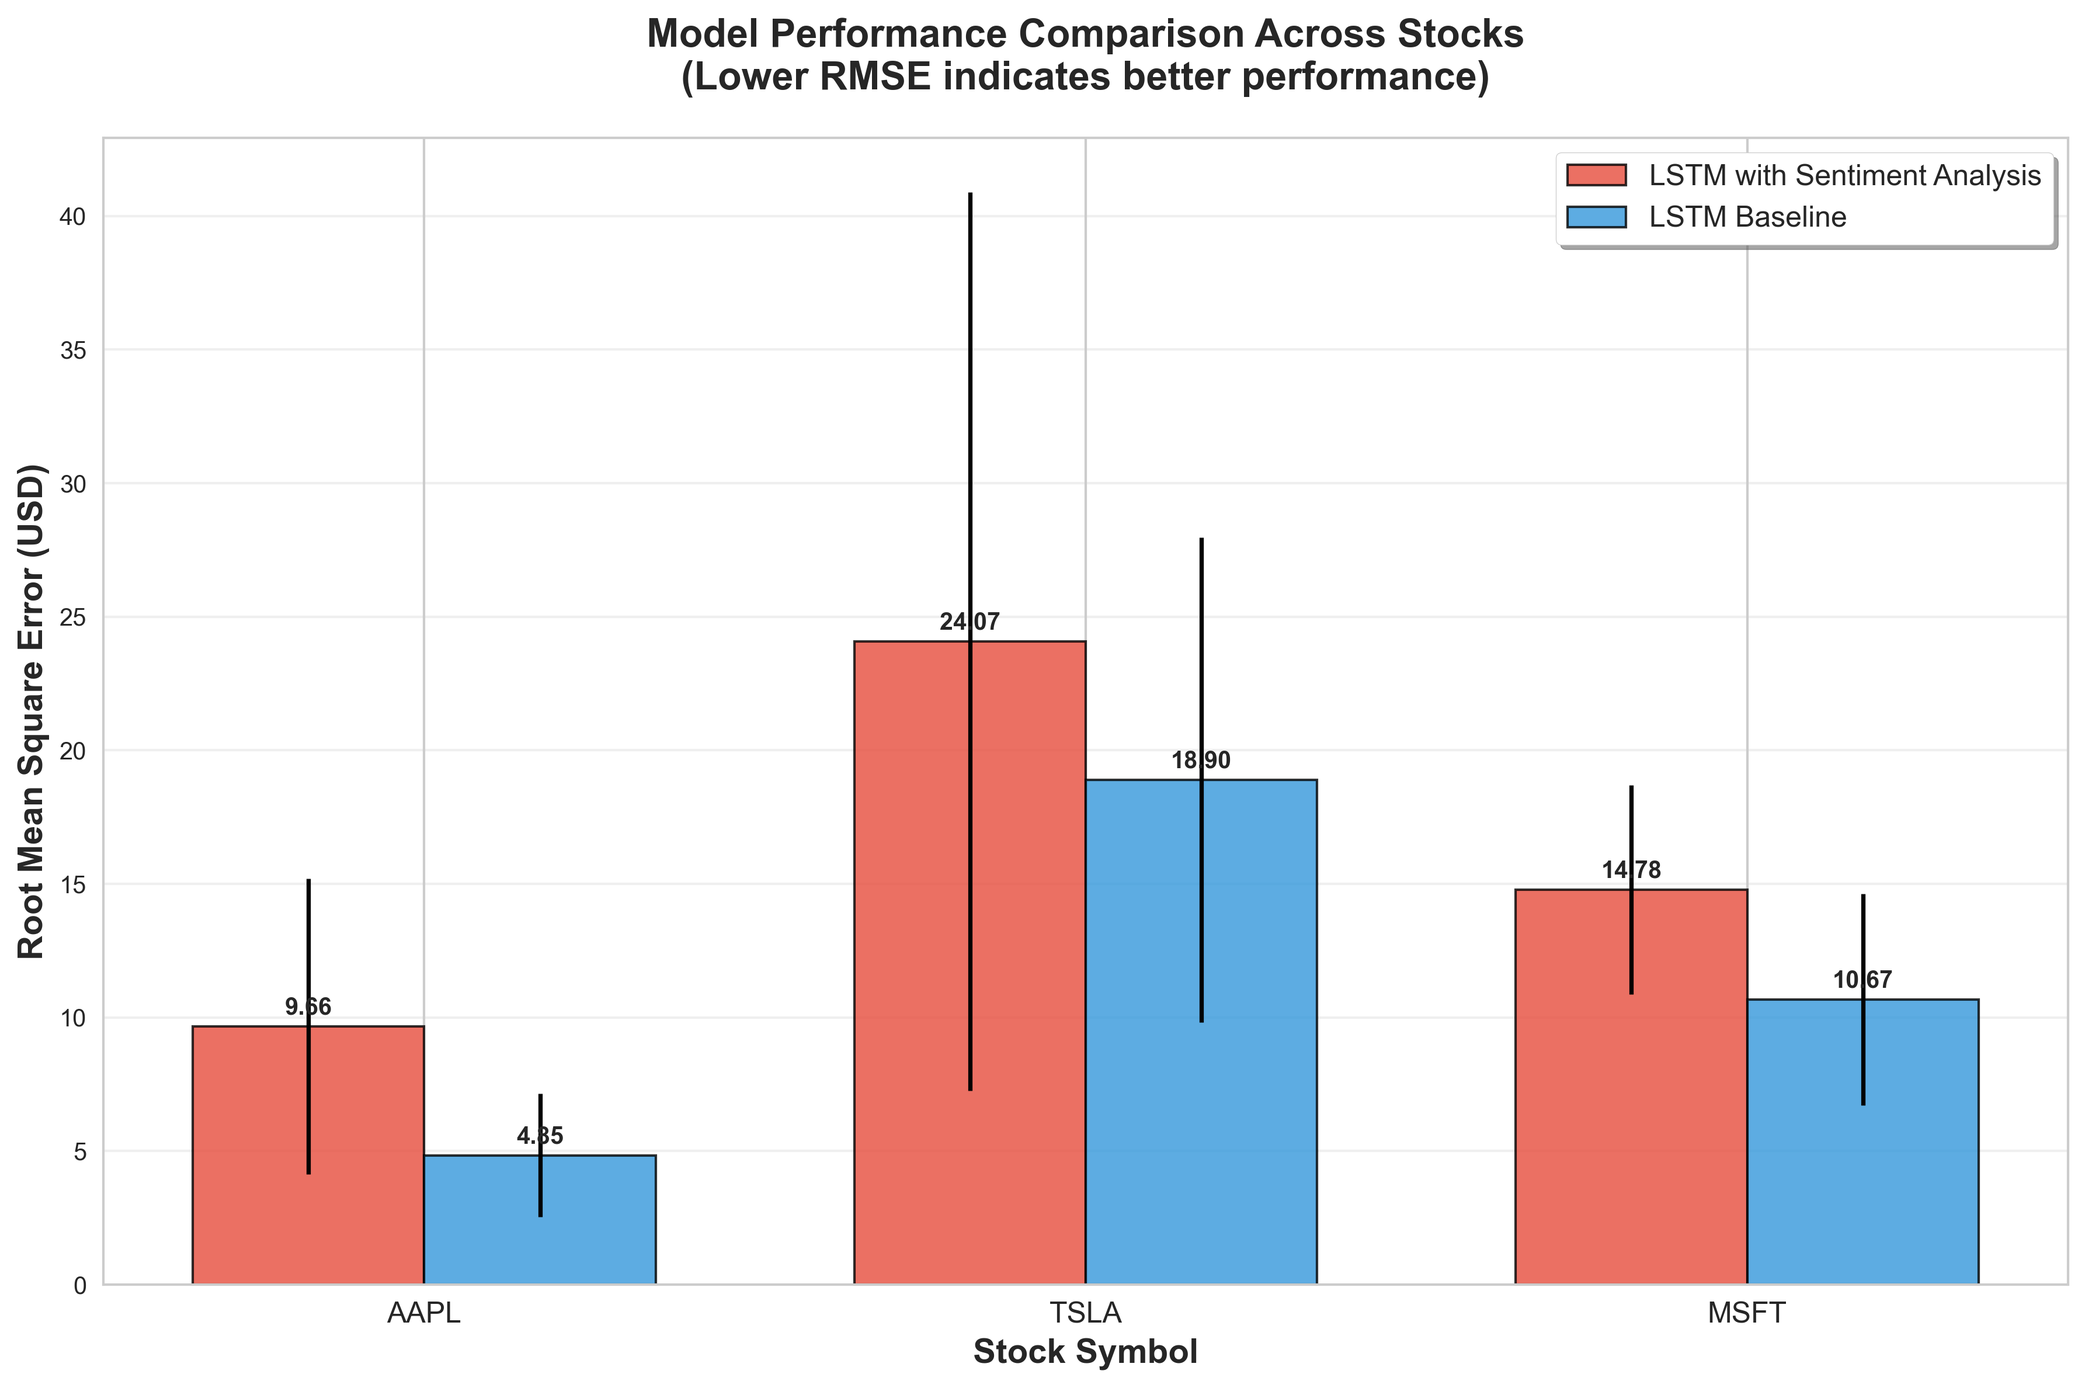
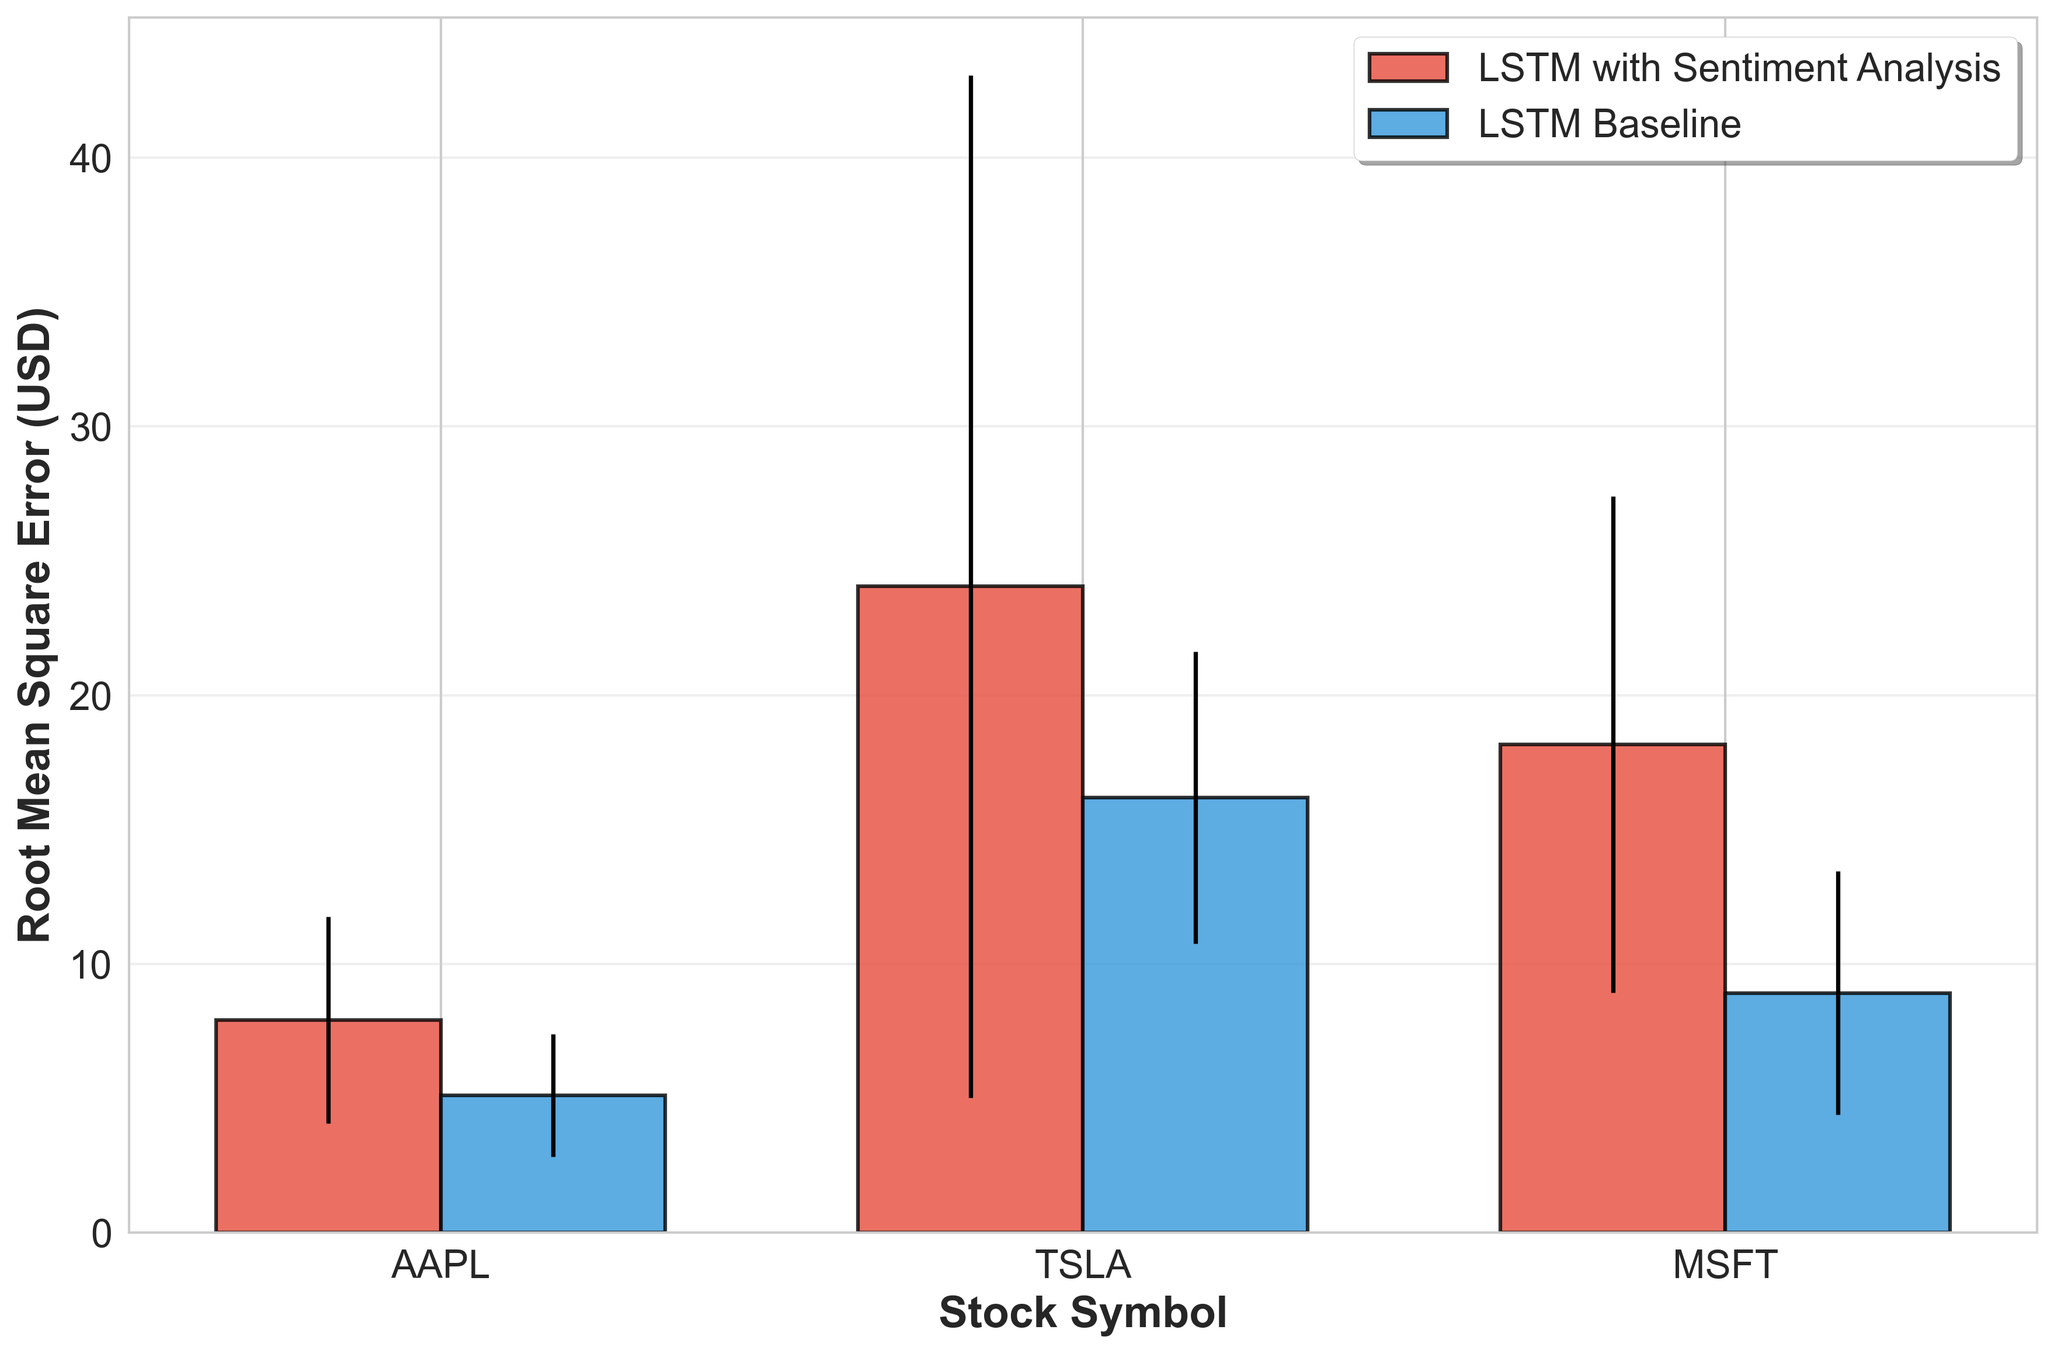
updated figures

diff --git a/main_analysis.py b/main_analysis.py
@@ -418,38 +418,341 @@ class ImprovedStockPredictor:
     
     def create_comprehensive_visualizations(self, results_dict, statistical_results):
         """
-        Create professional visualizations as separate PNG files.
-        
+        Create professional visualizations as both combined and separate PNG files.
+
         Args:
             results_dict (dict): Dictionary containing all results
             statistical_results (dict): Statistical test results
         """
         print("Creating professional visualizations...")
-        
+
         # Set professional style
         plt.style.use('seaborn-v0_8-whitegrid')
         sns.set_palette("husl")
-        
-        # 1. Model Performance Comparison
-        self._create_performance_comparison_plot(results_dict)
-        
-        # 2. Cross-validation Distribution
-        self._create_cv_distribution_plot(results_dict)
-        
-        # 3. Statistical Significance Analysis
-        self._create_significance_plot(statistical_results)
-        
-        # 4. Individual Stock Predictions
-        self._create_individual_stock_plots(results_dict)
-        
-        # 5. Model Architecture Diagram
-        self._create_architecture_diagram()
-        
-        # 6. Results Summary Table
-        self._create_results_table(results_dict, statistical_results)
-        
-        print("All visualizations saved as separate PNG files")
-    
+
+        # Increase default font sizes for all figures
+        plt.rcParams.update({
+            'font.size': 16,
+            'axes.labelsize': 18,
+            'axes.titlesize': 20,
+            'xtick.labelsize': 16,
+            'ytick.labelsize': 16,
+            'legend.fontsize': 16
+        })
+
+        # Create individual separate PNG files
+        self._save_individual_figures(results_dict, statistical_results)
+
+        # Create a single combined figure
+        self._create_combined_figure(results_dict, statistical_results)
+
+        print("All visualizations saved as both combined and separate PNG files")
+
+    def _save_individual_figures(self, results_dict, statistical_results):
+        """Save each figure as a separate PNG file."""
+
+        # Figure 1: Model Performance Comparison
+        fig, ax = plt.subplots(1, 1, figsize=(12, 8))
+        self._plot_performance_comparison(results_dict, ax)
+        plt.tight_layout()
+        plt.savefig('Figure1_Model_Performance_Comparison.png', dpi=300, bbox_inches='tight',
+                   facecolor='white', edgecolor='none')
+        plt.close()
+        print("[OK] Saved: Figure1_Model_Performance_Comparison.png")
+
+        # Figure 2: AAPL Price Predictions
+        if 'AAPL_advanced' in results_dict:
+            fig, ax = plt.subplots(1, 1, figsize=(14, 8))
+            self._plot_individual_stock(results_dict, 'AAPL', ax)
+            plt.tight_layout()
+            plt.savefig('Figure2_AAPL_Price_Predictions.png', dpi=300, bbox_inches='tight',
+                       facecolor='white', edgecolor='none')
+            plt.close()
+            print("[OK] Saved: Figure2_AAPL_Price_Predictions.png")
+
+        # Figure 3: TSLA Price Predictions
+        if 'TSLA_advanced' in results_dict:
+            fig, ax = plt.subplots(1, 1, figsize=(14, 8))
+            self._plot_individual_stock(results_dict, 'TSLA', ax)
+            plt.tight_layout()
+            plt.savefig('Figure3_TSLA_Price_Predictions.png', dpi=300, bbox_inches='tight',
+                       facecolor='white', edgecolor='none')
+            plt.close()
+            print("[OK] Saved: Figure3_TSLA_Price_Predictions.png")
+
+        # Figure 4: MSFT Price Predictions
+        if 'MSFT_advanced' in results_dict:
+            fig, ax = plt.subplots(1, 1, figsize=(14, 8))
+            self._plot_individual_stock(results_dict, 'MSFT', ax)
+            plt.tight_layout()
+            plt.savefig('Figure4_MSFT_Price_Predictions.png', dpi=300, bbox_inches='tight',
+                       facecolor='white', edgecolor='none')
+            plt.close()
+            print("[OK] Saved: Figure4_MSFT_Price_Predictions.png")
+
+        # Figure 5: Statistical Significance (with A/B panels)
+        fig, (ax1, ax2) = plt.subplots(1, 2, figsize=(18, 7))
+        self._plot_significance_panels(statistical_results, ax1, ax2)
+        plt.tight_layout()
+        plt.savefig('Figure5_Statistical_Significance_Analysis.png', dpi=300, bbox_inches='tight',
+                   facecolor='white', edgecolor='none')
+        plt.close()
+        print("[OK] Saved: Figure5_Statistical_Significance_Analysis.png")
+
+    def _create_combined_figure(self, results_dict, statistical_results):
+        """Create a single combined figure with all visualizations."""
+        # Create figure with subplots (3 rows, 2 columns layout)
+        fig = plt.figure(figsize=(24, 20))
+        gs = fig.add_gridspec(3, 2, hspace=0.4, wspace=0.3)
+
+        # Figure 1: Model Performance Comparison (row 1, full width)
+        ax1 = fig.add_subplot(gs[0, :])
+        self._plot_performance_comparison(results_dict, ax1)
+
+        # Figure 2: AAPL Price Predictions (row 2, left)
+        ax2 = fig.add_subplot(gs[1, 0])
+        self._plot_individual_stock(results_dict, 'AAPL', ax2)
+
+        # Figure 3: TSLA Price Predictions (row 2, right)
+        ax3 = fig.add_subplot(gs[1, 1])
+        self._plot_individual_stock(results_dict, 'TSLA', ax3)
+
+        # Figure 4: MSFT Price Predictions (row 3, left)
+        ax4 = fig.add_subplot(gs[2, 0])
+        self._plot_individual_stock(results_dict, 'MSFT', ax4)
+
+        # Figure 5: Statistical Significance (row 3, right - combined A/B panels)
+        ax5 = fig.add_subplot(gs[2, 1])
+        # Create a nested subplot for the A/B panels within this space
+        ax5.remove()
+        inner_gs = gs[2, 1].subgridspec(1, 2, wspace=0.3)
+        ax5a = fig.add_subplot(inner_gs[0, 0])
+        ax5b = fig.add_subplot(inner_gs[0, 1])
+        self._plot_significance_panels(statistical_results, ax5a, ax5b)
+
+        plt.savefig('Combined_Figures_All.png', dpi=300, bbox_inches='tight',
+                   facecolor='white', edgecolor='none')
+        plt.close()
+        print("[OK] Saved: Combined_Figures_All.png")
+
+    def _plot_performance_comparison(self, results_dict, ax):
+        """Plot model performance comparison for Figure 1."""
+        stocks = []
+        advanced_rmse = []
+        baseline_rmse = []
+        advanced_std = []
+        baseline_std = []
+
+        for stock in ['AAPL', 'TSLA', 'MSFT']:
+            if f"{stock}_advanced" in results_dict and f"{stock}_baseline" in results_dict:
+                stocks.append(stock)
+                advanced_rmse.append(results_dict[f"{stock}_advanced"]['mean_rmse'])
+                baseline_rmse.append(results_dict[f"{stock}_baseline"]['mean_rmse'])
+                advanced_std.append(results_dict[f"{stock}_advanced"]['std_rmse'])
+                baseline_std.append(results_dict[f"{stock}_baseline"]['std_rmse'])
+
+        x = np.arange(len(stocks))
+        width = 0.35
+
+        # Create bars WITHOUT value labels (removed numbers)
+        ax.bar(x - width/2, advanced_rmse, width, yerr=advanced_std,
+               label='LSTM with Sentiment Analysis', capsize=5,
+               color='#E74C3C', alpha=0.8, edgecolor='black', linewidth=1.5)
+        ax.bar(x + width/2, baseline_rmse, width, yerr=baseline_std,
+               label='LSTM Baseline', capsize=5,
+               color='#3498DB', alpha=0.8, edgecolor='black', linewidth=1.5)
+
+        ax.set_xlabel('Stock Symbol', fontweight='bold')
+        ax.set_ylabel('Root Mean Square Error (USD)', fontweight='bold')
+        # No title as per requirements
+        ax.set_xticks(x)
+        ax.set_xticklabels(stocks)
+        ax.legend(frameon=True, fancybox=True, shadow=True)
+        ax.grid(True, alpha=0.3, axis='y')
+
+    def _plot_cv_distribution(self, results_dict, ax):
+        """Plot cross-validation distribution for Figure 2."""
+        data_for_plot = []
+
+        for key, result in results_dict.items():
+            if 'advanced' in key:
+                stock = result['stock']
+                rmse_scores = result['cv_scores']['rmse']
+                for score in rmse_scores:
+                    # Match Figure 1 legend naming
+                    data_for_plot.append({'RMSE': score, 'Model': f"{stock}\nwith Sentiment", 'Type': 'LSTM with Sentiment Analysis'})
+            elif 'baseline' in key:
+                stock = result['stock']
+                rmse_scores = result['cv_scores']['rmse']
+                for score in rmse_scores:
+                    # Match Figure 1 legend naming
+                    data_for_plot.append({'RMSE': score, 'Model': f"{stock}\nBaseline", 'Type': 'LSTM Baseline'})
+
+        if data_for_plot:
+            df_plot = pd.DataFrame(data_for_plot)
+            sns.boxplot(data=df_plot, x='Model', y='RMSE', hue='Type', ax=ax,
+                       palette={'LSTM with Sentiment Analysis': '#E74C3C', 'LSTM Baseline': '#3498DB'})
+
+            # No title as per requirements
+            ax.set_xlabel('Model Configuration', fontweight='bold')
+            ax.set_ylabel('Root Mean Square Error (USD)', fontweight='bold')
+            ax.legend(title='Model Type')
+            ax.grid(True, alpha=0.3, axis='y')
+
+    def _plot_individual_stock(self, results_dict, stock, ax):
+        """Plot individual stock predictions."""
+        key = f"{stock}_advanced"
+        if key in results_dict:
+            result = results_dict[key]
+            actuals = result['actuals'][-150:]
+            predictions = result['predictions'][-150:]
+            x = range(len(actuals))
+
+            ax.plot(x, actuals, label='Actual Prices', linewidth=3, color='#2E86AB', alpha=0.8)
+            ax.plot(x, predictions, label='LSTM Predictions (with Sentiment)',
+                   linewidth=3, color='#A23B72', alpha=0.8)
+            ax.fill_between(x, actuals, predictions, alpha=0.2, color='gray')
+
+            # Calculate metrics
+            rmse = np.sqrt(mean_squared_error(actuals, predictions))
+            mae = mean_absolute_error(actuals, predictions)
+            r2 = r2_score(actuals, predictions)
+
+            # No title as per requirements
+            ax.set_xlabel('Time Period (Days)', fontweight='bold')
+            ax.set_ylabel('Stock Price (USD)', fontweight='bold')
+            ax.legend(loc='upper left', frameon=True, fancybox=True, shadow=True)
+            ax.grid(True, alpha=0.3)
+
+            # Add stock symbol as text annotation instead of title
+            ax.text(0.02, 0.98, stock, transform=ax.transAxes,
+                   fontsize=22, fontweight='bold', verticalalignment='top',
+                   bbox=dict(boxstyle="round,pad=0.5", facecolor="lightgray", alpha=0.7))
+
+            # Add performance metrics box
+            metrics_text = f'RMSE: ${rmse:.2f}\nMAE: ${mae:.2f}\nR²: {r2:.3f}'
+            ax.text(0.98, 0.98, metrics_text, transform=ax.transAxes,
+                   verticalalignment='top', horizontalalignment='right',
+                   bbox=dict(boxstyle="round,pad=0.5", facecolor="white", alpha=0.9, edgecolor='black'))
+
+    def _plot_significance_panels(self, statistical_results, ax1, ax2):
+        """Plot statistical significance with A/B labels for Figure 5."""
+        # Sort stocks to match Figures 1 and 2 order
+        stocks = ['AAPL', 'TSLA', 'MSFT']
+        # Filter to only include stocks that have results
+        stocks = [s for s in stocks if s in statistical_results]
+
+        improvements = [statistical_results[stock]['improvement_pct'] for stock in stocks]
+        p_values = [statistical_results[stock]['t_test']['p_value'] for stock in stocks]
+
+        # Panel A: Performance Change
+        colors = ['#27AE60' if imp > 0 else '#E74C3C' for imp in improvements]
+        bars = ax1.bar(stocks, improvements, color=colors, alpha=0.7, edgecolor='black', linewidth=1.5)
+
+        ax1.axhline(y=0, color='black', linestyle='-', linewidth=1.5)
+        ax1.set_xlabel('Stock Symbol', fontweight='bold')
+        ax1.set_ylabel('RMSE Change (%)', fontweight='bold')
+        # No title, add A label instead
+        ax1.text(0.02, 0.98, 'A', transform=ax1.transAxes, fontsize=28,
+                fontweight='bold', verticalalignment='top',
+                bbox=dict(boxstyle="round,pad=0.4", facecolor="white", edgecolor='black', linewidth=2))
+        ax1.grid(True, alpha=0.3, axis='y')
+
+        # Panel B: Statistical Significance (indicate that colors represent significance level)
+        sig_colors = ['#27AE60' if p < 0.05 else '#F39C12' for p in p_values]
+        bars2 = ax2.bar(stocks, [-np.log10(p) for p in p_values], color=sig_colors,
+                       alpha=0.7, edgecolor='black', linewidth=1.5)
+
+        ax2.axhline(y=-np.log10(0.05), color='red', linestyle='--', linewidth=2.5,
+                   label='Significance Threshold (p=0.05)')
+        ax2.set_xlabel('Stock Symbol', fontweight='bold')
+        ax2.set_ylabel('-log10(p-value)', fontweight='bold')
+        # No title, add B label instead
+        ax2.text(0.02, 0.98, 'B', transform=ax2.transAxes, fontsize=28,
+                fontweight='bold', verticalalignment='top',
+                bbox=dict(boxstyle="round,pad=0.4", facecolor="white", edgecolor='black', linewidth=2))
+
+        # Add note about colors in Panel B
+        color_note = 'Colors indicate significance:\nGreen: p < 0.05 (significant)\nOrange: p ≥ 0.05 (not significant)'
+        ax2.text(0.98, 0.02, color_note, transform=ax2.transAxes,
+                fontsize=14, verticalalignment='bottom', horizontalalignment='right',
+                bbox=dict(boxstyle="round,pad=0.5", facecolor="lightyellow", alpha=0.9, edgecolor='black'))
+        ax2.legend()
+        ax2.grid(True, alpha=0.3, axis='y')
+
+    def _plot_architecture_diagram(self, ax):
+        """Display model architecture as text."""
+        architecture_text = """
+LSTM MODEL ARCHITECTURE
+
+━━━━━━━━━━━━━━━━━━━━━━━━━━━━━━━━━━━━━━━━━━━━━━━━━━━━━━━━━━━
+
+INPUT LAYER
+• Sequence Length: 60 days
+• Features: 21 (Technical Indicators + Sentiment Metrics)
+• Shape: (batch_size, 60, 21)
+
+━━━━━━━━━━━━━━━━━━━━━━━━━━━━━━━━━━━━━━━━━━━━━━━━━━━━━━━━━━━
+
+LSTM LAYER 1
+• Units: 128
+• Return Sequences: True
+• L2 Regularization: 0.001
+• Batch Normalization
+• Dropout: 30%
+
+━━━━━━━━━━━━━━━━━━━━━━━━━━━━━━━━━━━━━━━━━━━━━━━━━━━━━━━━━━━
+
+LSTM LAYER 2
+• Units: 64
+• Return Sequences: True
+• L2 Regularization: 0.001
+• Batch Normalization
+• Dropout: 30%
+
+━━━━━━━━━━━━━━━━━━━━━━━━━━━━━━━━━━━━━━━━━━━━━━━━━━━━━━━━━━━
+
+LSTM LAYER 3
+• Units: 32
+• Return Sequences: False
+• L2 Regularization: 0.001
+• Batch Normalization
+• Dropout: 20%
+
+━━━━━━━━━━━━━━━━━━━━━━━━━━━━━━━━━━━━━━━━━━━━━━━━━━━━━━━━━━━
+
+DENSE LAYER
+• Units: 16
+• Activation: ReLU
+• L2 Regularization: 0.001
+• Dropout: 10%
+
+━━━━━━━━━━━━━━━━━━━━━━━━━━━━━━━━━━━━━━━━━━━━━━━━━━━━━━━━━━━
+
+OUTPUT LAYER
+• Units: 1 (Stock Price Prediction)
+• Activation: Linear
+
+━━━━━━━━━━━━━━━━━━━━━━━━━━━━━━━━━━━━━━━━━━━━━━━━━━━━━━━━━━━
+
+TRAINING CONFIGURATION
+• Optimizer: Adam (learning_rate=0.001)
+• Loss Function: Mean Squared Error (MSE)
+• Batch Size: 32
+• Max Epochs: 100
+• Early Stopping: Patience=15
+• Learning Rate Reduction: Factor=0.5, Patience=10
+
+━━━━━━━━━━━━━━━━━━━━━━━━━━━━━━━━━━━━━━━━━━━━━━━━━━━━━━━━━━━
+        """
+
+        ax.text(0.05, 0.95, architecture_text, transform=ax.transAxes,
+                verticalalignment='top', horizontalalignment='left', fontfamily='monospace',
+                fontsize=13, bbox=dict(boxstyle="round,pad=0.5", facecolor="lightblue", alpha=0.1))
+        ax.set_xlim(0, 1)
+        ax.set_ylim(0, 1)
+        ax.axis('off')
+
     def _create_performance_comparison_plot(self, results_dict):
         """Create professional model performance comparison plot."""
         fig, ax = plt.subplots(1, 1, figsize=(12, 8))
